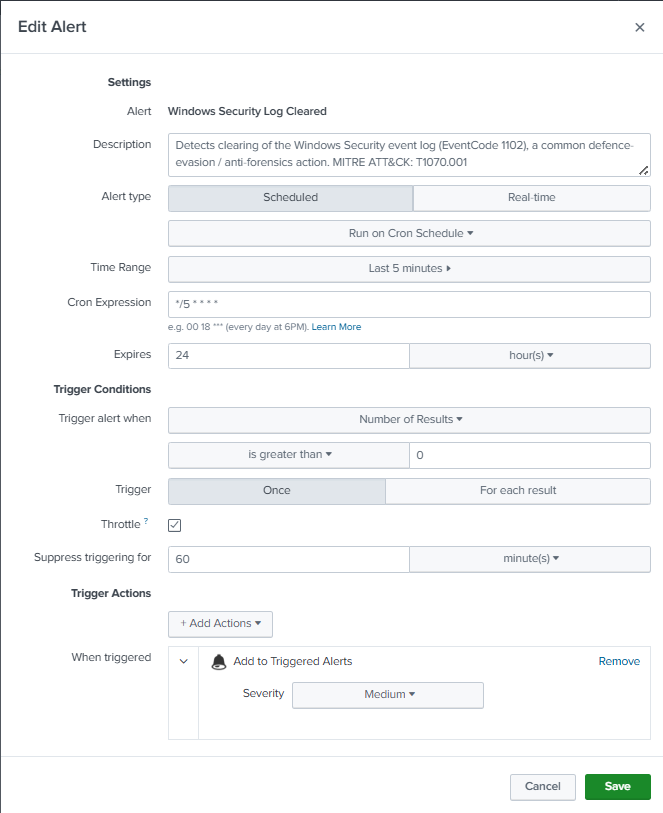
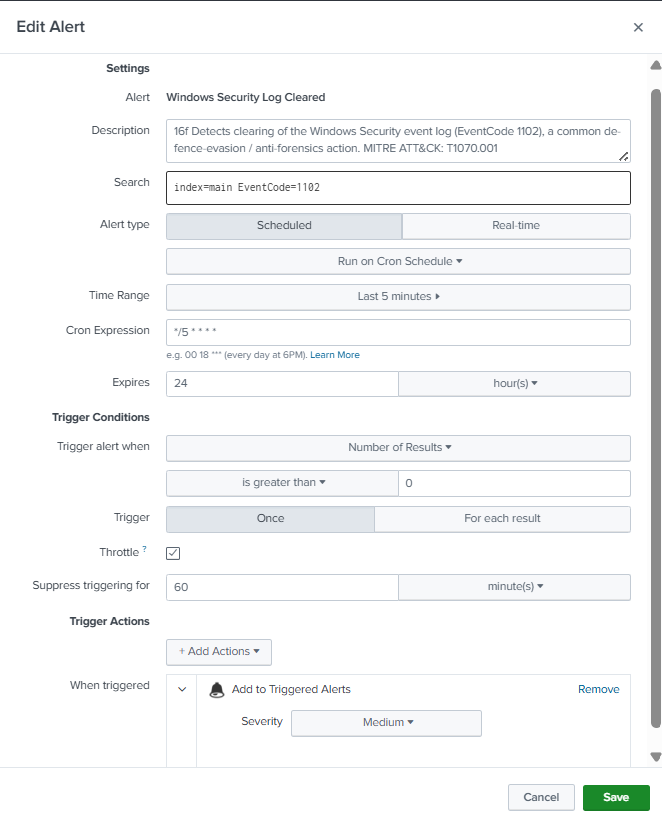
Add log-clearing detection and update README

diff --git a/README.md b/README.md
@@ -219,8 +219,8 @@ Each detection is saved as a scheduled alert running on a 5-minute cron (`*/5 * 
 - **MITRE ATT&CK technique:** T1070.001 - Indicator Removal: Clear Windows Event Logs
 - **What triggered the alert:** The Windows Security event log was cleared on Windows-Target, recorded as EventCode 1102 ("the audit log was cleared"). Clearing security logs is a common anti-forensics / defence-evasion action used by an attacker to destroy evidence of their activity after gaining access.
 - **Splunk query used:** `index=main EventCode=1102`
-- **Investigation steps taken:** Reviewed the EventCode 1102 event, confirming the host (`DESKTOP-0DO6S21`) and the account responsible for the clear. Noted that a single clear operation generates the 1102 event in the freshly-cleared log, so the act of destroying evidence itself produces a durable, forwarded record - the event reaches the Splunk indexer before local deletion matters, which is exactly why centralised log forwarding defeats this technique.
-- **Verdict:** True positive (simulated). Log clearing has almost no legitimate cause on a normal endpoint, making 1102 a high-fidelity, low-noise detection. In a live environment this would be treated as high priority: an attacker clearing logs implies they already have administrative access and are actively covering their tracks, so the response would be to preserve the forwarded copy of the logs (which the SIEM already holds), isolate the host, and reconstruct the pre-clear activity from the centrally-stored events rather than the now-wiped local log.
+- **Investigation steps taken:** Reviewed the EventCode 1102 event, confirming the host (`DESKTOP-0DO6S21`) and the account responsible for the clear. Noted that the act of clearing the log itself generates the 1102 event, so destroying local evidence still produces a durable, forwarded record - the event reaches the Splunk indexer regardless of the local log being wiped, which is exactly why centralised log forwarding defeats this technique.
+- **Verdict:** True positive (simulated). Log clearing has almost no legitimate cause on a normal endpoint, making 1102 a high-fidelity, low-noise detection. In a live environment this would be high priority: an attacker clearing logs implies they already have administrative access and are actively covering their tracks, so the response would be to preserve the SIEM's forwarded copy of the logs, isolate the host, and reconstruct the pre-clear activity from the centrally-stored events rather than the now-wiped local log.
 
 ## Screenshots
 
@@ -331,7 +331,7 @@ Access to administrative shares (`C$`, `ADMIN$`) over SMB from Kali, generating 
 ![Attack - lateral movement](screenshots/17e-attack-lateral-movement.png)
 ![Detection - lateral movement](screenshots/17e-detection-lateral-movement.png)
 
-**17f. Defence Evasion - Windows Security Log Cleared** — `T1070.001` Clear Windows Event Logs
+**17f. Defence Evasion - Windows Security Log Cleared** - `T1070.001` Clear Windows Event Logs
 Clearing of the Security event log via `wevtutil cl Security`, generating EventCode 1102.
 ![Attack - log cleared](screenshots/17f-attack-logcleared.png)
 ![Detection - log cleared](screenshots/17f-detection-logcleared.png)
